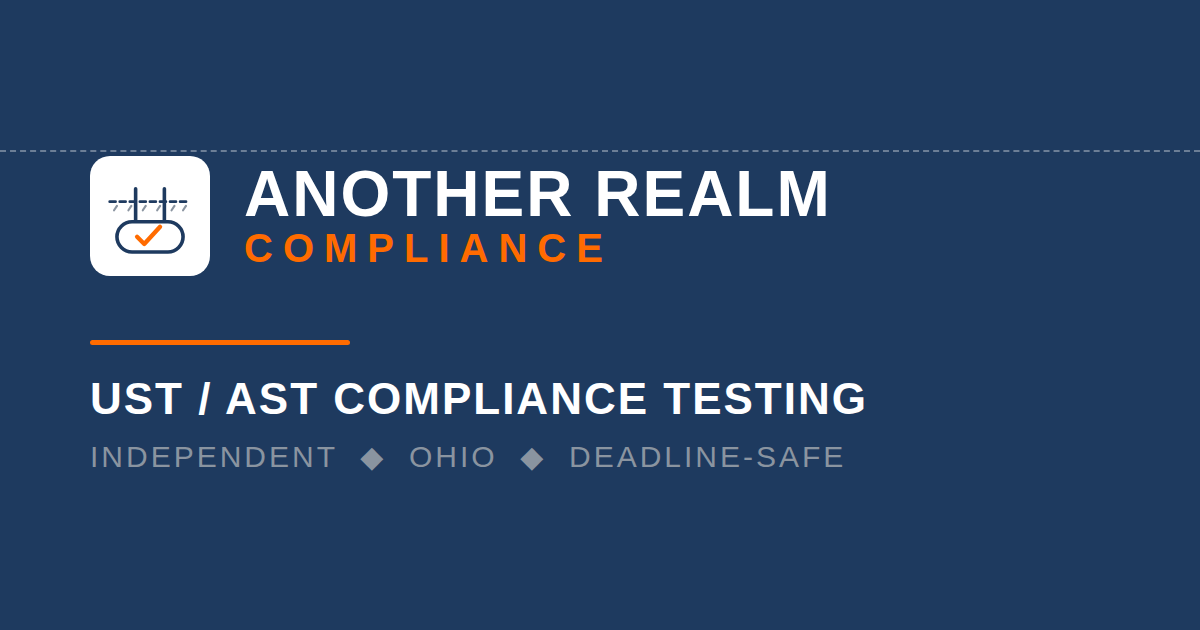
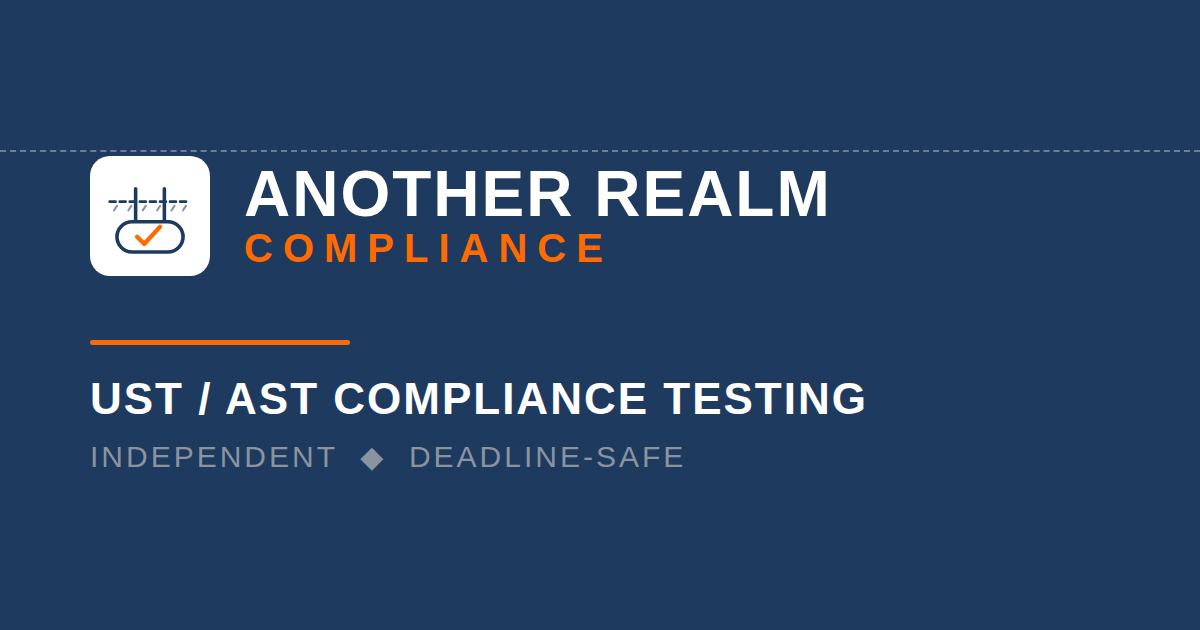
Remove remaining Ohio restriction (H2 + og-image social card)
Claude-Session: https://claude.ai/code/session_01QcsU6dZx9sBJMW5NS74fG3

Changed region(s): [[0.3392, 0.6937, 0.7092, 0.754]]

diff --git a/index.html b/index.html
@@ -88,7 +88,7 @@
   <section class="why band">
     <div class="wrap">
       <p class="eyebrow">Why Another Realm Compliance</p>
-      <h2 class="sec-title">Built For Ohio Fuel-Site Owners</h2>
+      <h2 class="sec-title">Built For Fuel-Site Owners</h2>
       <div class="props">
         <div class="prop">
           <h3><span class="tick">&#9670;</span> Independent</h3>